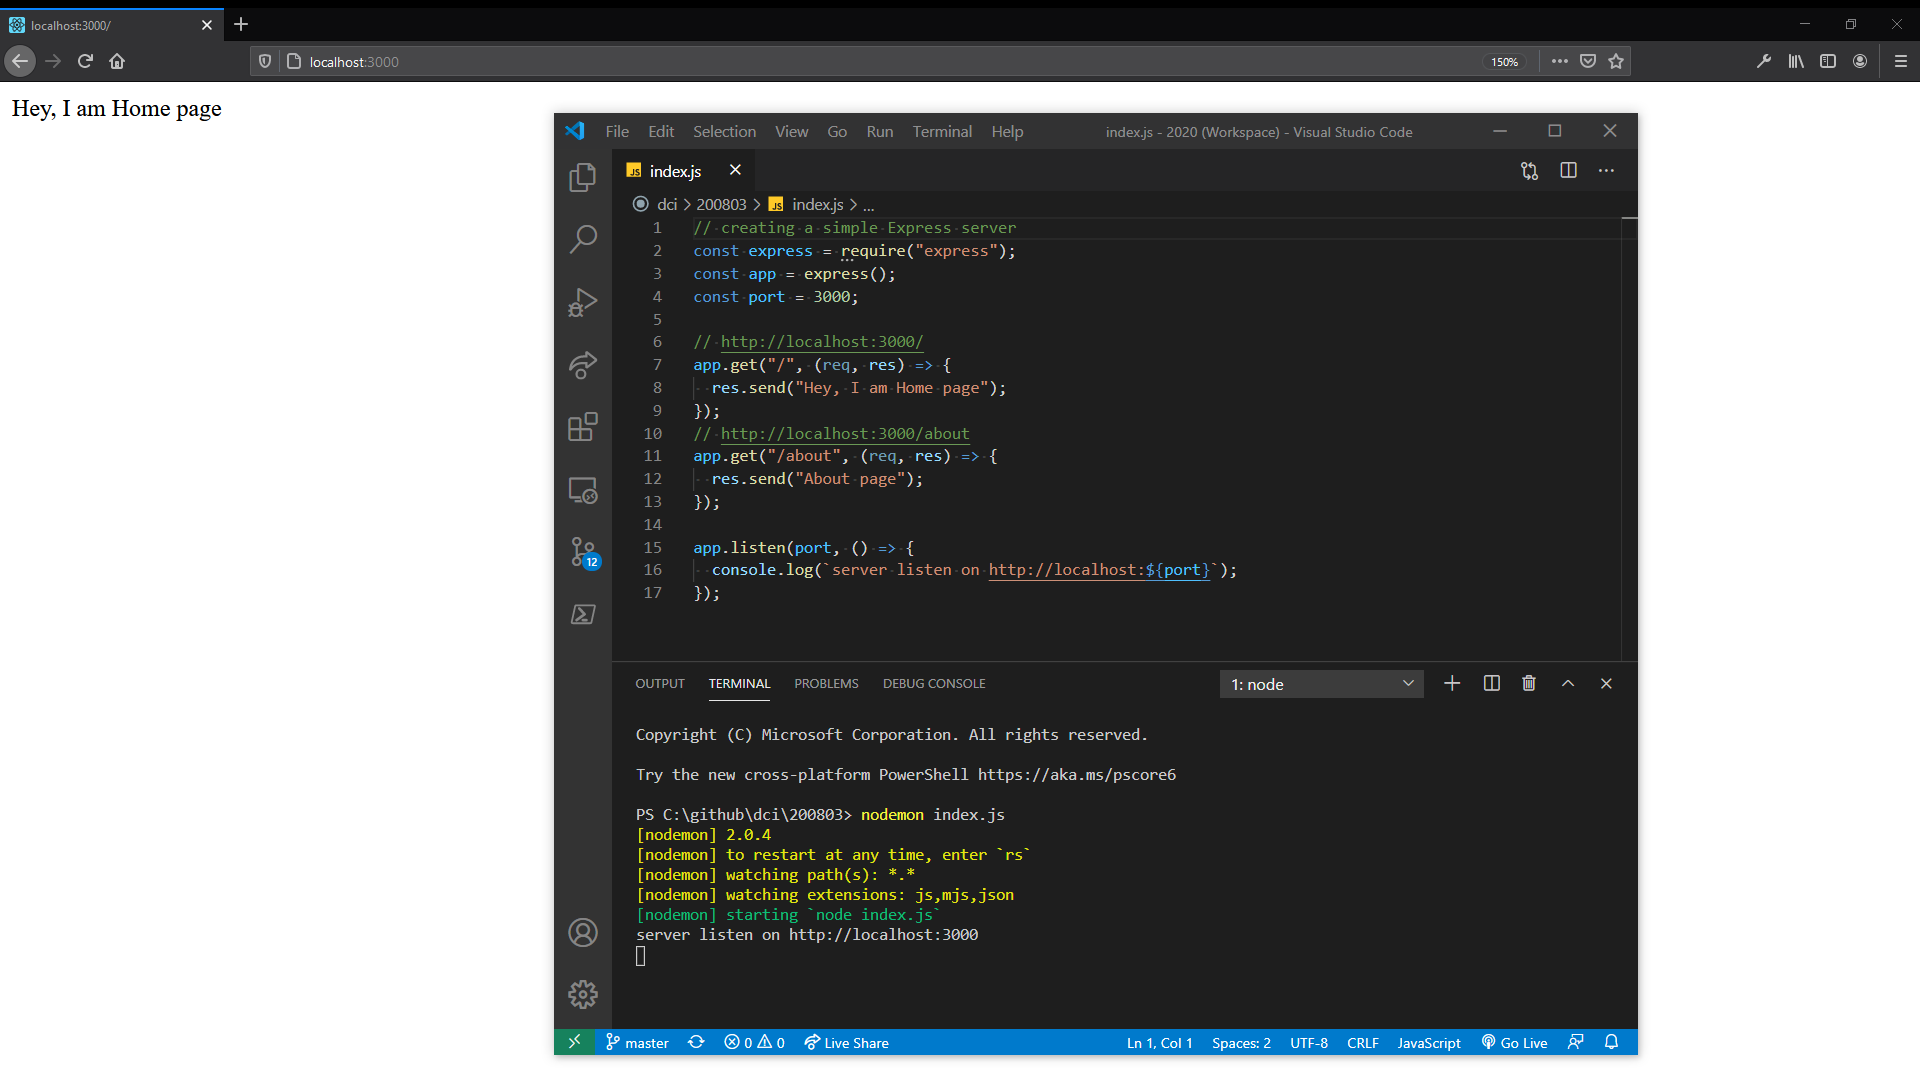
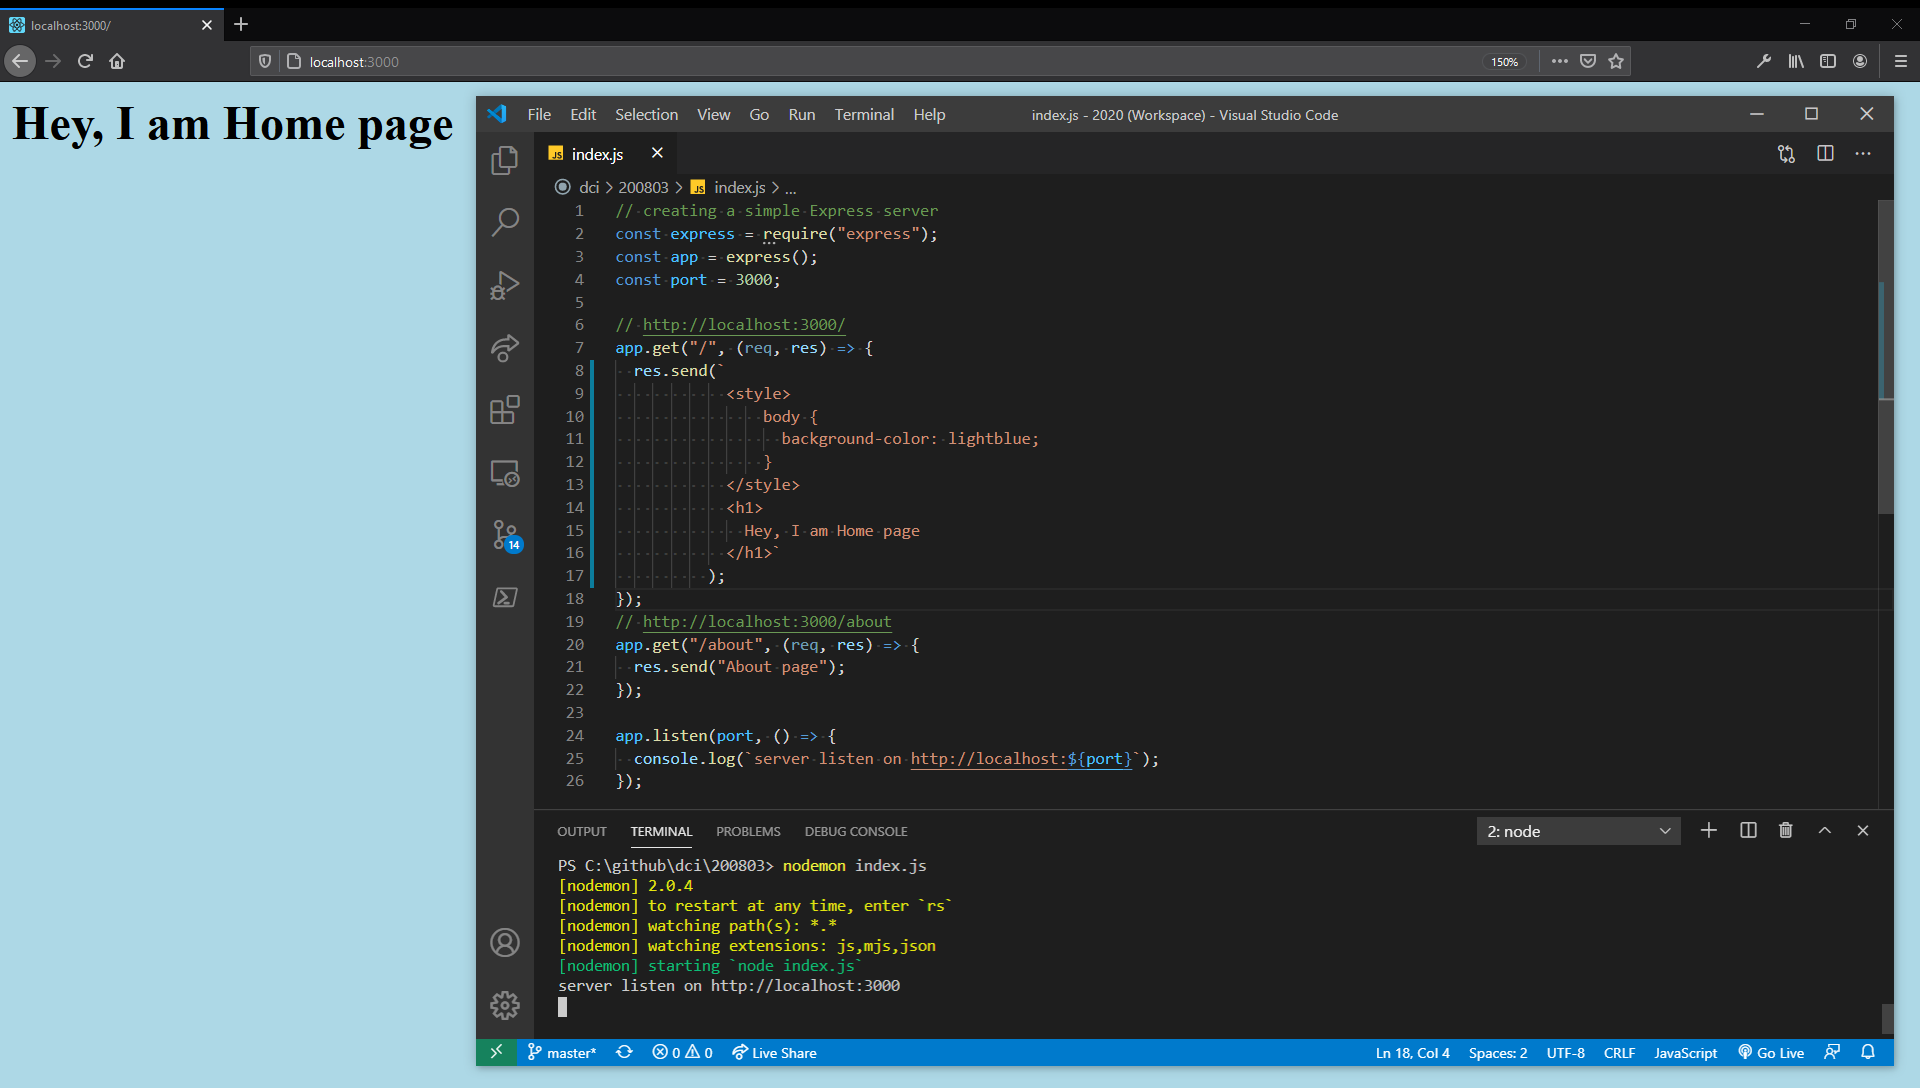
Express

diff --git a/200803/index.js b/200803/index.js
@@ -5,7 +5,16 @@ const port = 3000;
 
 // http://localhost:3000/
 app.get("/", (req, res) => {
-  res.send("Hey, I am Home page");
+  res.send(`
+            <style>
+                body {
+                  background-color: lightblue;
+                }
+            </style>
+            <h1>
+              Hey, I am Home page
+            </h1>`
+          );
 });
 // http://localhost:3000/about
 app.get("/about", (req, res) => {

diff --git a/200803/README.md b/200803/README.md
@@ -79,3 +79,9 @@ https://developer.mozilla.org/en-US/docs/Web/HTTP/Status
 ## HTTP request methods
 
 https://developer.mozilla.org/en-US/docs/Web/HTTP/Methods
+
+# Tutorials
+
+[Traversy Media - Express JS Crash Course](https://www.youtube.com/watch?v=L72fhGm1tfE&feature=youtu.be)
+
+[The Coding Train - 8.2: HTTP Server with Express - Programming with Text](https://www.youtube.com/watch?v=6oiabY1xpBo&feature=youtu.be)
